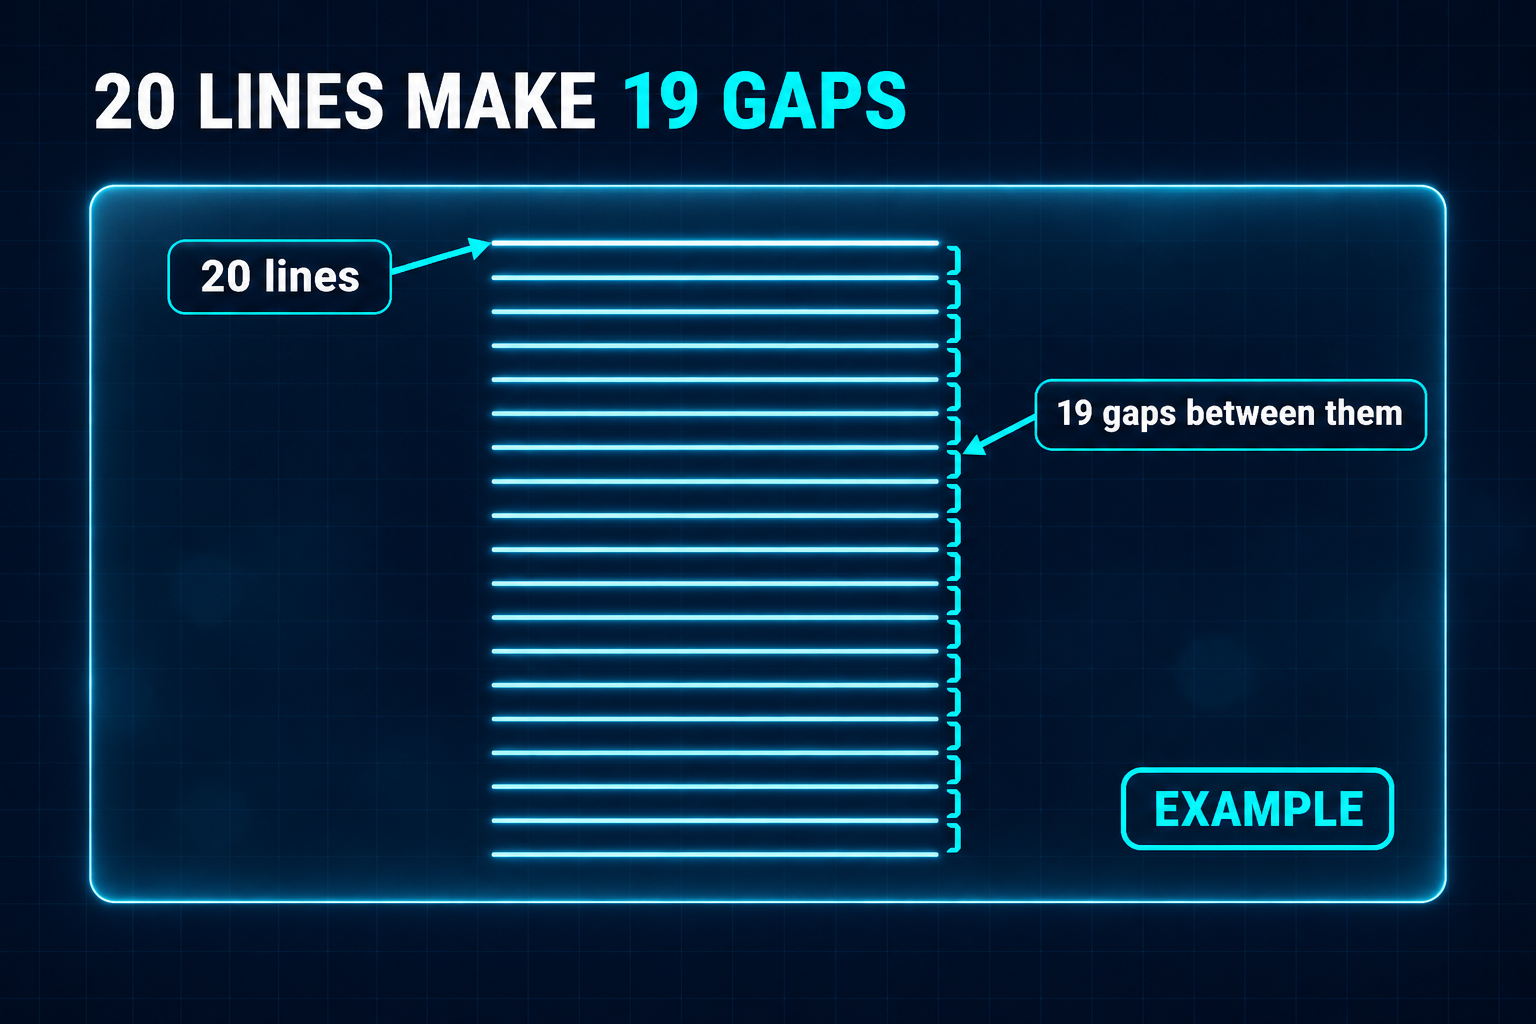
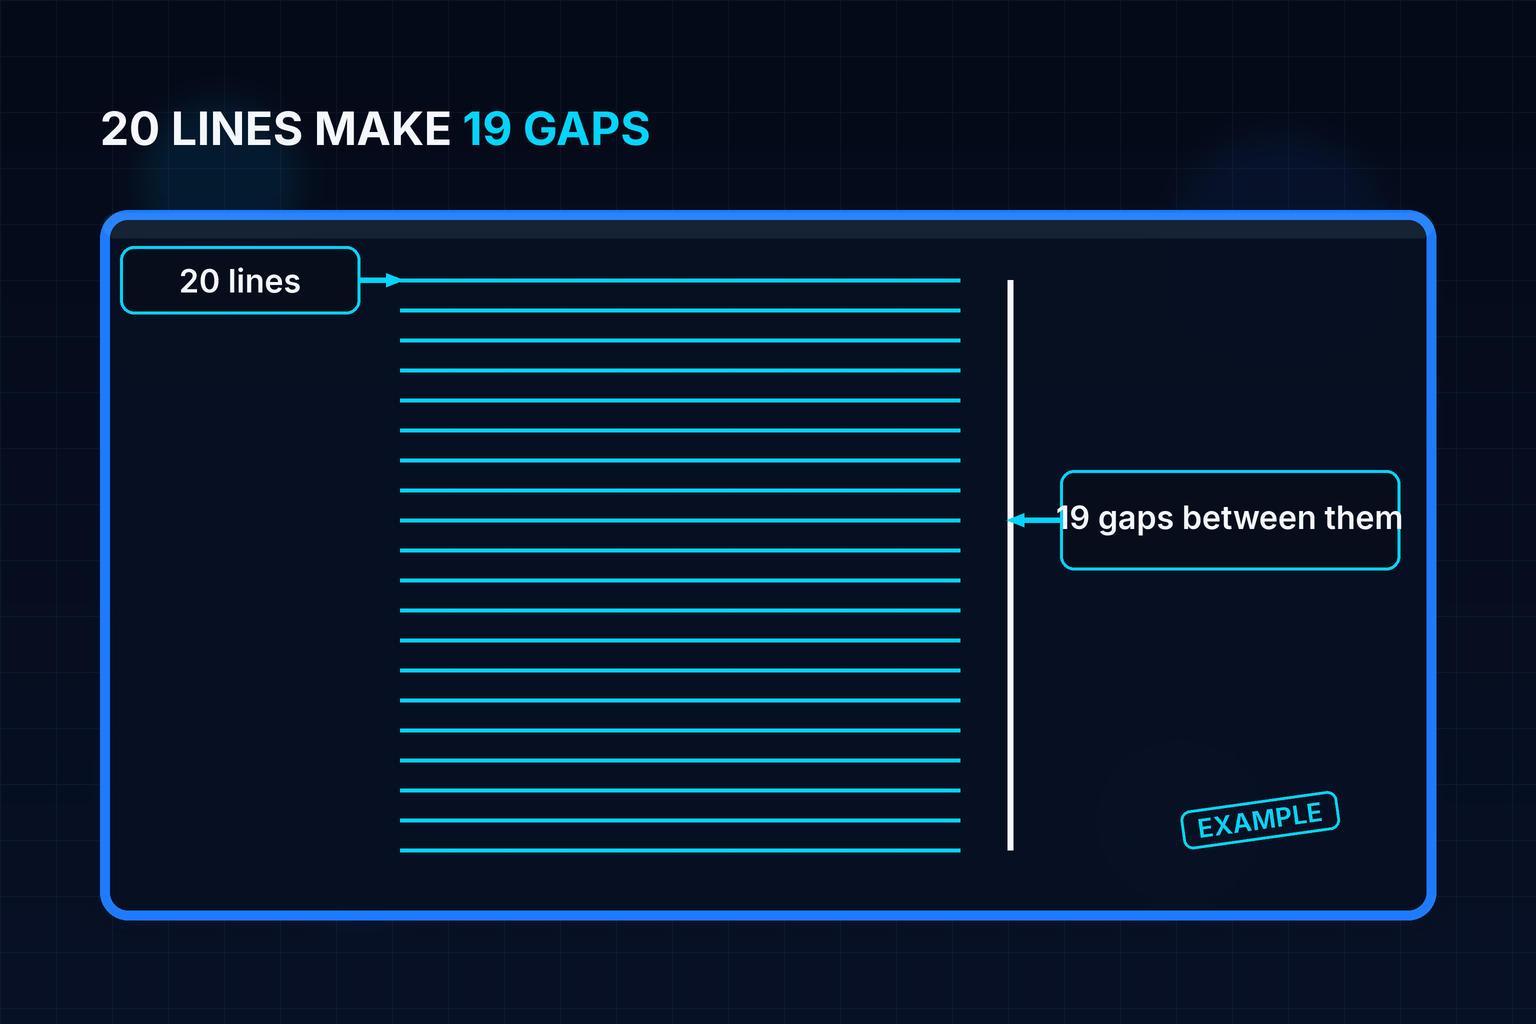
Redraw BP-05 004 with 20 lines and 19 equal gaps.
The frame is a thicker blue rounded card, so it is not counted as one of the lines.

diff --git a/course/tools/blueprint_cursor_stills/render_queue.py b/course/tools/blueprint_cursor_stills/render_queue.py
@@ -619,6 +619,68 @@ def bp04_015() -> None:
     }])
 
 
+def bp05_004() -> None:
+    img = canvas()
+    head(img, "20 LINES MAKE 19 GAPS", "19 GAPS", size=46)
+    # Blue rounded card, thicker than the cyan lines, so the frame is not a grid line.
+    rounded_glow(
+        img,
+        [px(v) for v in (100, 210, 1436, 920)],
+        radius=px(28),
+        fill=(7, 16, 34, 230),
+        outline=BLUE + (255,),
+        glow=(20, 70, 160, 70),
+        width=px(10),
+    )
+    ys = [280 + i * 30 for i in range(20)]
+    layer = Image.new("RGBA", img.size, (0, 0, 0, 0))
+    d = ImageDraw.Draw(layer)
+    for y in ys:
+        d.line([(px(400), px(y)), (px(960), px(y))], fill=CYAN + (255,), width=px(4))
+    # White rail beside the line ends, marking the gaps rather than adding a line.
+    d.line([(px(1010), px(ys[0])), (px(1010), px(ys[-1]))], fill=WHITE + (255,), width=px(6))
+    paste_layer(img, layer)
+    face = font(FONT_SEMI, 32)
+    tag(img, (120, 246, 360, 314), ["20 lines"], face)
+    arrow(img, (360, 280), (404, 280))
+    tag(img, (1060, 470, 1400, 570), ["19 gaps between them"], face)
+    arrow(img, (1060, 520), (1006, 520))
+    stamp(img, 1260, 820)
+    final = save(img, "course/images/bp-05-spacing-and-range/004.png")
+    assert_tip(final, (404, 280), (408, 280), "lines")
+    assert_tip(final, (1006, 520), (1010, 520), "gaps")
+    runs = _cyan_runs(final, 680, 200, 980)
+    centers = [(a + b) // 2 for a, b in runs]
+    gaps = [b - a for a, b in zip(centers, centers[1:])]
+    print("004 lines", len(runs), "gaps", gaps)
+    if len(runs) != 20 or len(gaps) != 19 or any(g != gaps[0] for g in gaps):
+        raise SystemExit(f"004 count {len(runs)} gaps {gaps}")
+    record([{
+        "path": "course/images/bp-05-spacing-and-range/004.png",
+        "lesson": "bp-05-spacing-and-range",
+        "shows": "A blue rounded frame with exactly 20 cyan lines and 19 equal gaps. The frame is not one of the lines.",
+        "alt": "Twenty lines make nineteen gaps. The frame around them is not a line.",
+        "batch": "cursor-bp05-004",
+    }])
+
+
+def _cyan_runs(im: Image.Image, x: int, y0: int, y1: int) -> list[tuple[int, int]]:
+    pxls = im.load()
+    runs = []
+    start = None
+    for y in range(y0, y1 + 1):
+        p = pxls[x, y]
+        cyan = p[2] > 180 and p[1] > 160 and p[0] < 40
+        if cyan and start is None:
+            start = y
+        elif not cyan and start is not None:
+            runs.append((start, y - 1))
+            start = None
+    if start is not None:
+        runs.append((start, y1))
+    return runs
+
+
 def bp05_006() -> None:
     img = canvas()
     head(img, "HALF THE GAP, DOUBLE THE GAPS", "DOUBLE THE GAPS", size=40)
